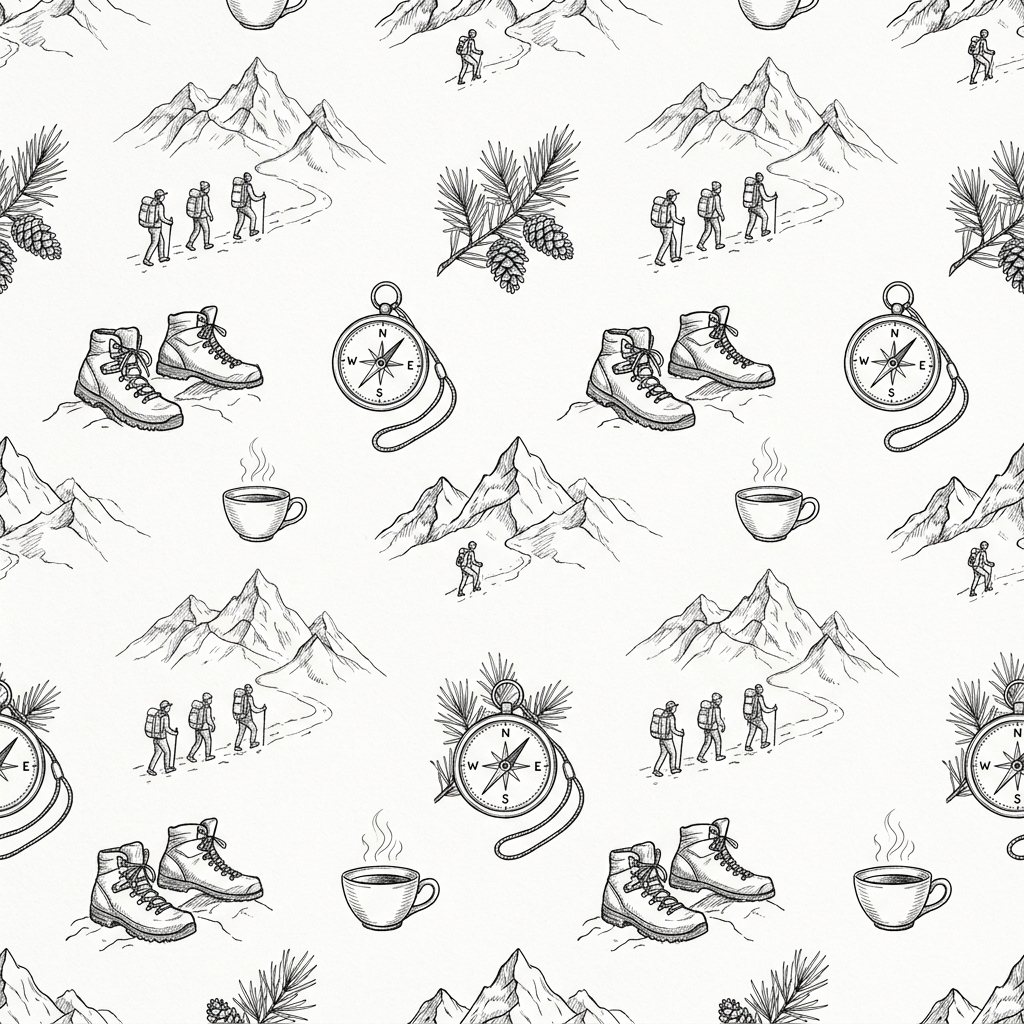
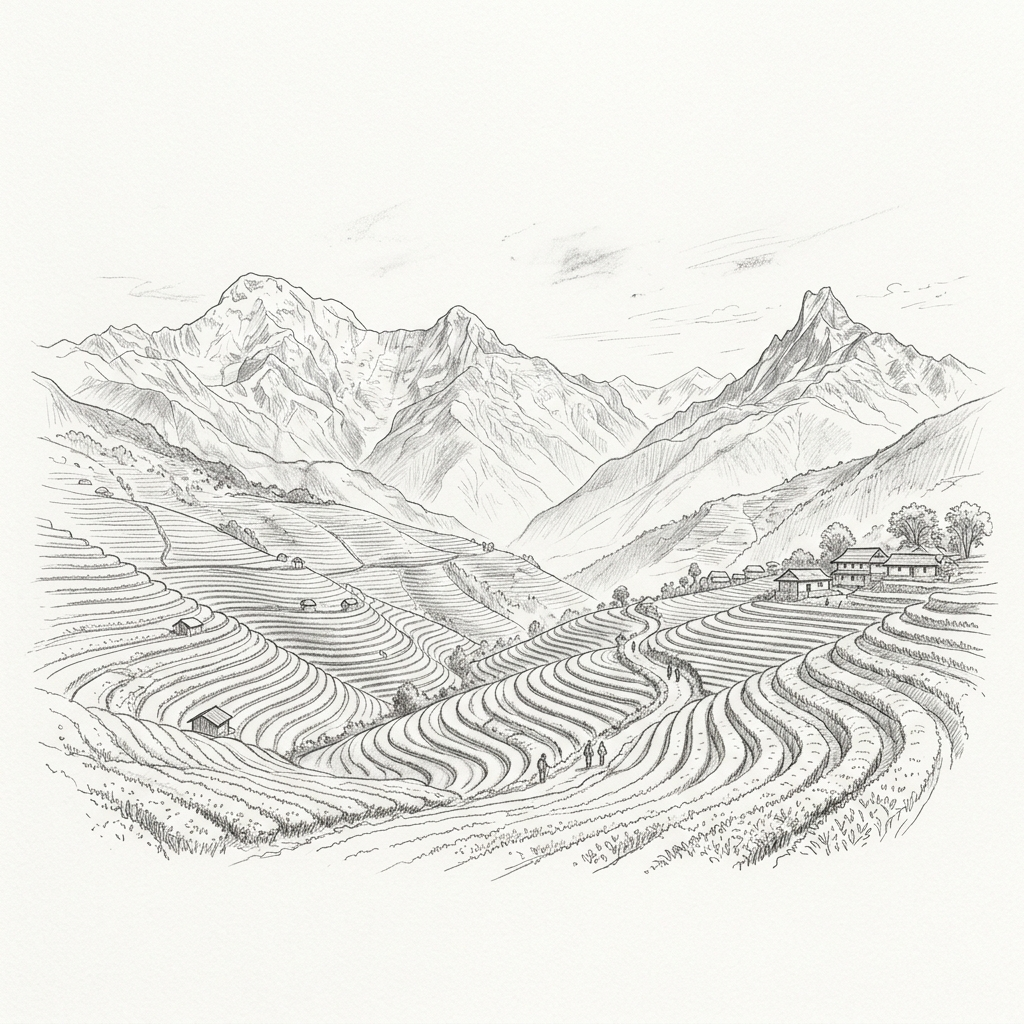
design: remove dotted frame from destinations cards, redesign regional tabs into a highly interactive segmented control track with layout animation for improved mobile discoverability

diff --git a/src/sections/Destinations/DestinationsGrid.tsx b/src/sections/Destinations/DestinationsGrid.tsx
@@ -102,17 +102,6 @@ const chapters = [
 ];
 
 /* ── Helper Components ───────────────────────────────────── */
-const FloralFrame = () => (
-  <svg className="hidden md:block absolute -inset-8 pointer-events-none opacity-20 group-hover:opacity-40 transition-opacity duration-700" viewBox="0 0 100 100" fill="none" xmlns="http://www.w3.org/2000/svg">
-    <path d="M10 10C30 5 70 5 90 10M10 90C30 95 70 95 90 90" stroke="#a5813b" strokeWidth="0.5" strokeDasharray="2 2" />
-    <path d="M10 10C5 30 5 70 10 90M90 10C95 30 95 70 90 90" stroke="#a5813b" strokeWidth="0.5" strokeDasharray="2 2" />
-    <circle cx="10" cy="10" r="2" fill="#a5813b" fillOpacity="0.2" />
-    <circle cx="90" cy="10" r="2" fill="#a5813b" fillOpacity="0.2" />
-    <circle cx="90" cy="90" r="2" fill="#a5813b" fillOpacity="0.2" />
-    <circle cx="10" cy="90" r="2" fill="#a5813b" fillOpacity="0.2" />
-  </svg>
-);
-
 const ArtisanOrnament = ({ className, speed = 1 }: { className?: string; speed?: number }) => {
   const { scrollY } = useScroll();
   const y = useTransform(scrollY, [0, 5000], [0, 300 * speed]);
@@ -204,26 +193,40 @@ export default function DestinationsGrid() {
           </motion.div>
         </div>
 
-        {/* Regional Filter Tabs */}
-        <div className="flex flex-wrap justify-center gap-3 md:gap-10 mb-16 md:mb-28">
-          {dynamicChapters.map((chapter) => (
-            <button
-              key={chapter.id}
-              onClick={() => setActiveChapter(chapter.id)}
-              className={`relative group px-5 py-2.5 md:px-4 md:py-2 rounded-full md:rounded-none border md:border-none transition-all duration-500 ${activeChapter === chapter.id ? "border-[#a5813b] bg-[#a5813b]/10 md:bg-transparent" : "border-[#e0d5c1] hover:border-[#a5813b]/50"}`}
-            >
-              <span className={`font-roman text-xs md:text-base uppercase tracking-[0.2em] font-medium transition-colors duration-500 ${activeChapter === chapter.id ? "text-[#a5813b]" : "text-[#5c544b] opacity-60 group-hover:opacity-100"}`}>
-                {chapter.label}
-              </span>
-              {activeChapter === chapter.id && (
-                <motion.div
-                  layoutId="chapter-underline"
-                  className="hidden md:block absolute -bottom-1 left-4 right-4 h-[1.5px] bg-[#a5813b]"
-                  transition={{ type: "spring", bounce: 0, duration: 0.6 }}
-                />
-              )}
-            </button>
-          ))}
+        {/* Regional Filter Tabs Selector */}
+        <div className="flex flex-col items-center gap-4 mb-16 md:mb-24 relative z-10">
+          <p className="text-[0.65rem] uppercase tracking-[0.3em] text-[#a5813b] font-bold opacity-60 animate-pulse">
+            Select a region to explore
+          </p>
+          <div className="flex justify-center w-full overflow-x-auto no-scrollbar px-4">
+            <div className="bg-[#f0e7d3]/80 backdrop-blur-sm border border-[#a5813b]/15 p-1.5 rounded-full flex gap-1 whitespace-nowrap shadow-md">
+              {dynamicChapters.map((chapter) => {
+                const isActive = activeChapter === chapter.id;
+                return (
+                  <button
+                    key={chapter.id}
+                    onClick={() => setActiveChapter(chapter.id)}
+                    className="relative px-5 py-3 rounded-full transition-colors duration-300 select-none"
+                  >
+                    {isActive && (
+                      <motion.div
+                        layoutId="active-chapter-pill"
+                        className="absolute inset-0 bg-[#a5813b] rounded-full z-0"
+                        transition={{ type: "spring", stiffness: 350, damping: 30 }}
+                      />
+                    )}
+                    <span
+                      className={`relative z-10 font-roman text-[10px] md:text-[13px] uppercase tracking-[0.2em] font-bold transition-colors duration-300 ${
+                        isActive ? "text-white" : "text-[#5c544b] opacity-80 hover:opacity-100 hover:text-[#a5813b]"
+                      }`}
+                    >
+                      {chapter.label}
+                    </span>
+                  </button>
+                );
+              })}
+            </div>
+          </div>
         </div>
 
         {/* Dynamic Artisan Folio */}
@@ -254,7 +257,6 @@ export default function DestinationsGrid() {
                       />
                       <div className="absolute inset-0 bg-[url('https://www.transparenttextures.com/patterns/natural-paper.png')] opacity-[0.08] mix-blend-overlay" />
                     </div>
-                    <FloralFrame />
                   </div>
 
                   {/* Info Section */}

diff --git a/src/sections/Activities/ActivitiesSection.tsx b/src/sections/Activities/ActivitiesSection.tsx
@@ -156,7 +156,7 @@ export default function ActivitiesSection() {
       className="relative w-full bg-[#f8f5f0] py-14 md:py-32 px-4 md:px-12 lg:px-24 overflow-hidden text-[#5c544b]"
     >
       {/* Sketch Background Painting */}
-      <div className="absolute inset-0 z-0 pointer-events-none opacity-[0.08] mix-blend-multiply bg-[url('/images/activities_sketch_bg.png')] bg-repeat bg-[size:350px] md:bg-[size:600px] bg-center" />
+      <div className="absolute inset-0 z-0 pointer-events-none opacity-[0.07] mix-blend-multiply bg-[url('/images/activities_sketch_bg.png')] bg-no-repeat bg-cover bg-center" />
 
       {/* Handcrafted Background Ornaments */}
       <motion.div style={{ y: ornamentY }} className="absolute -left-20 top-20 opacity-[0.08] pointer-events-none">